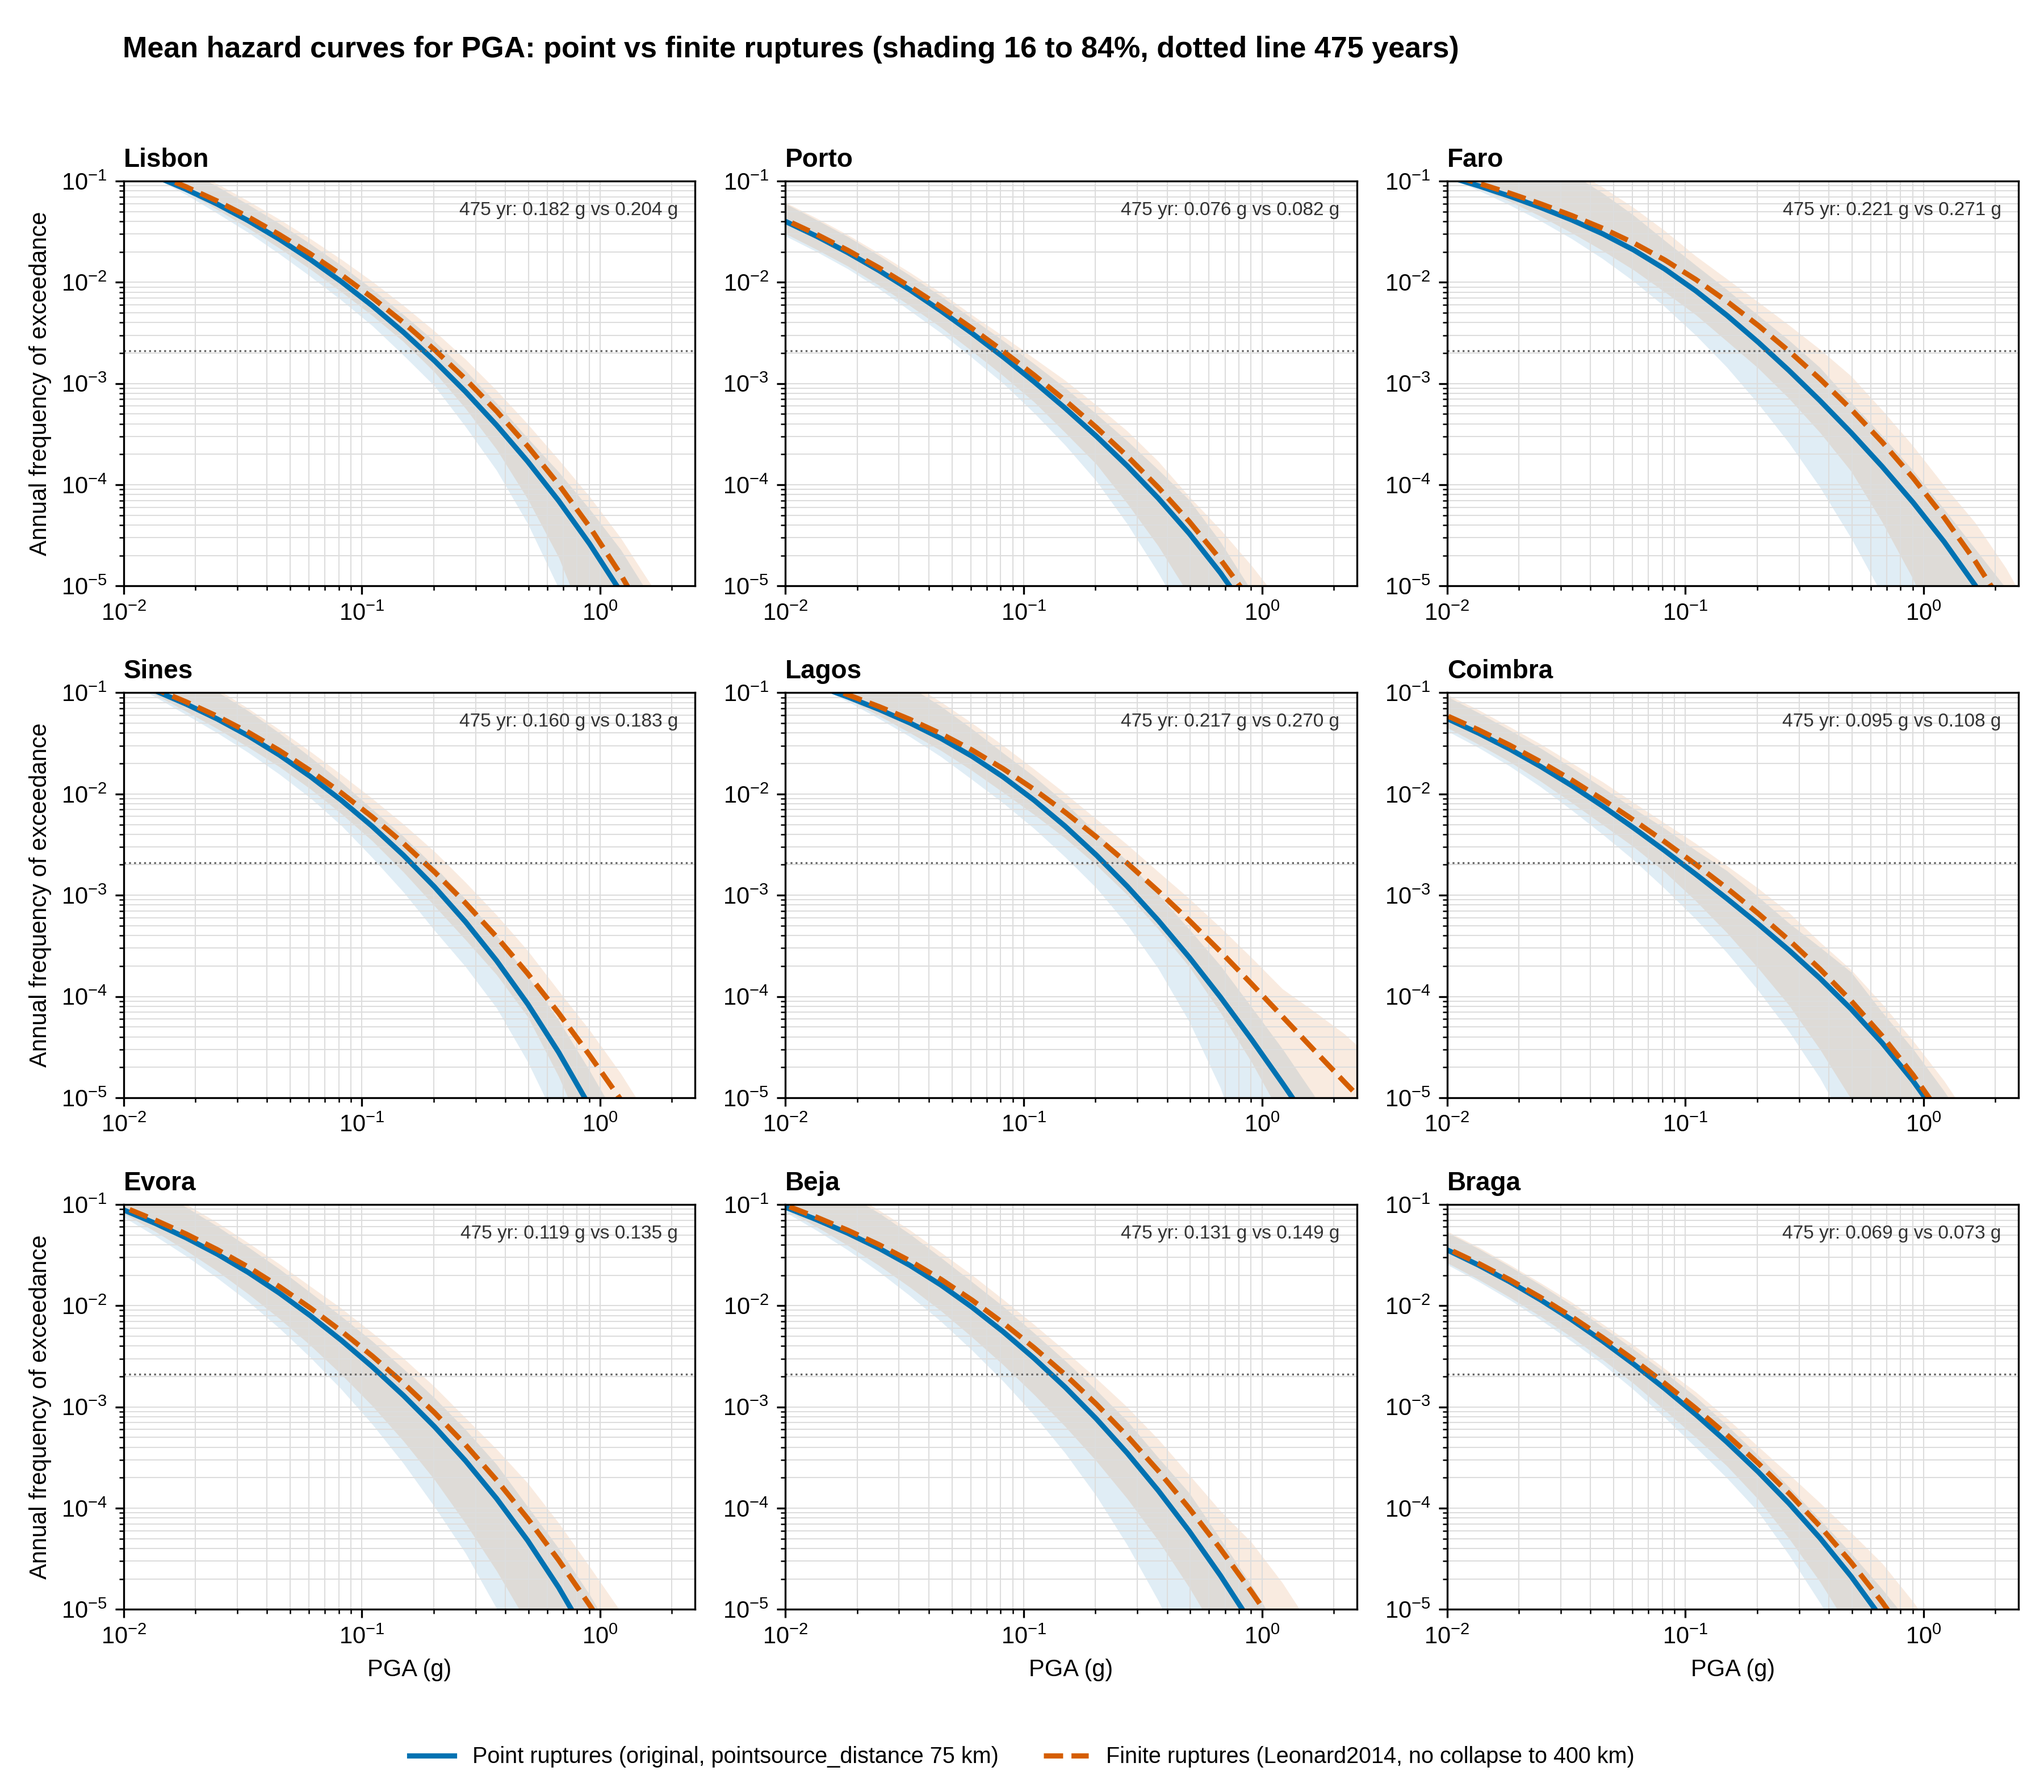
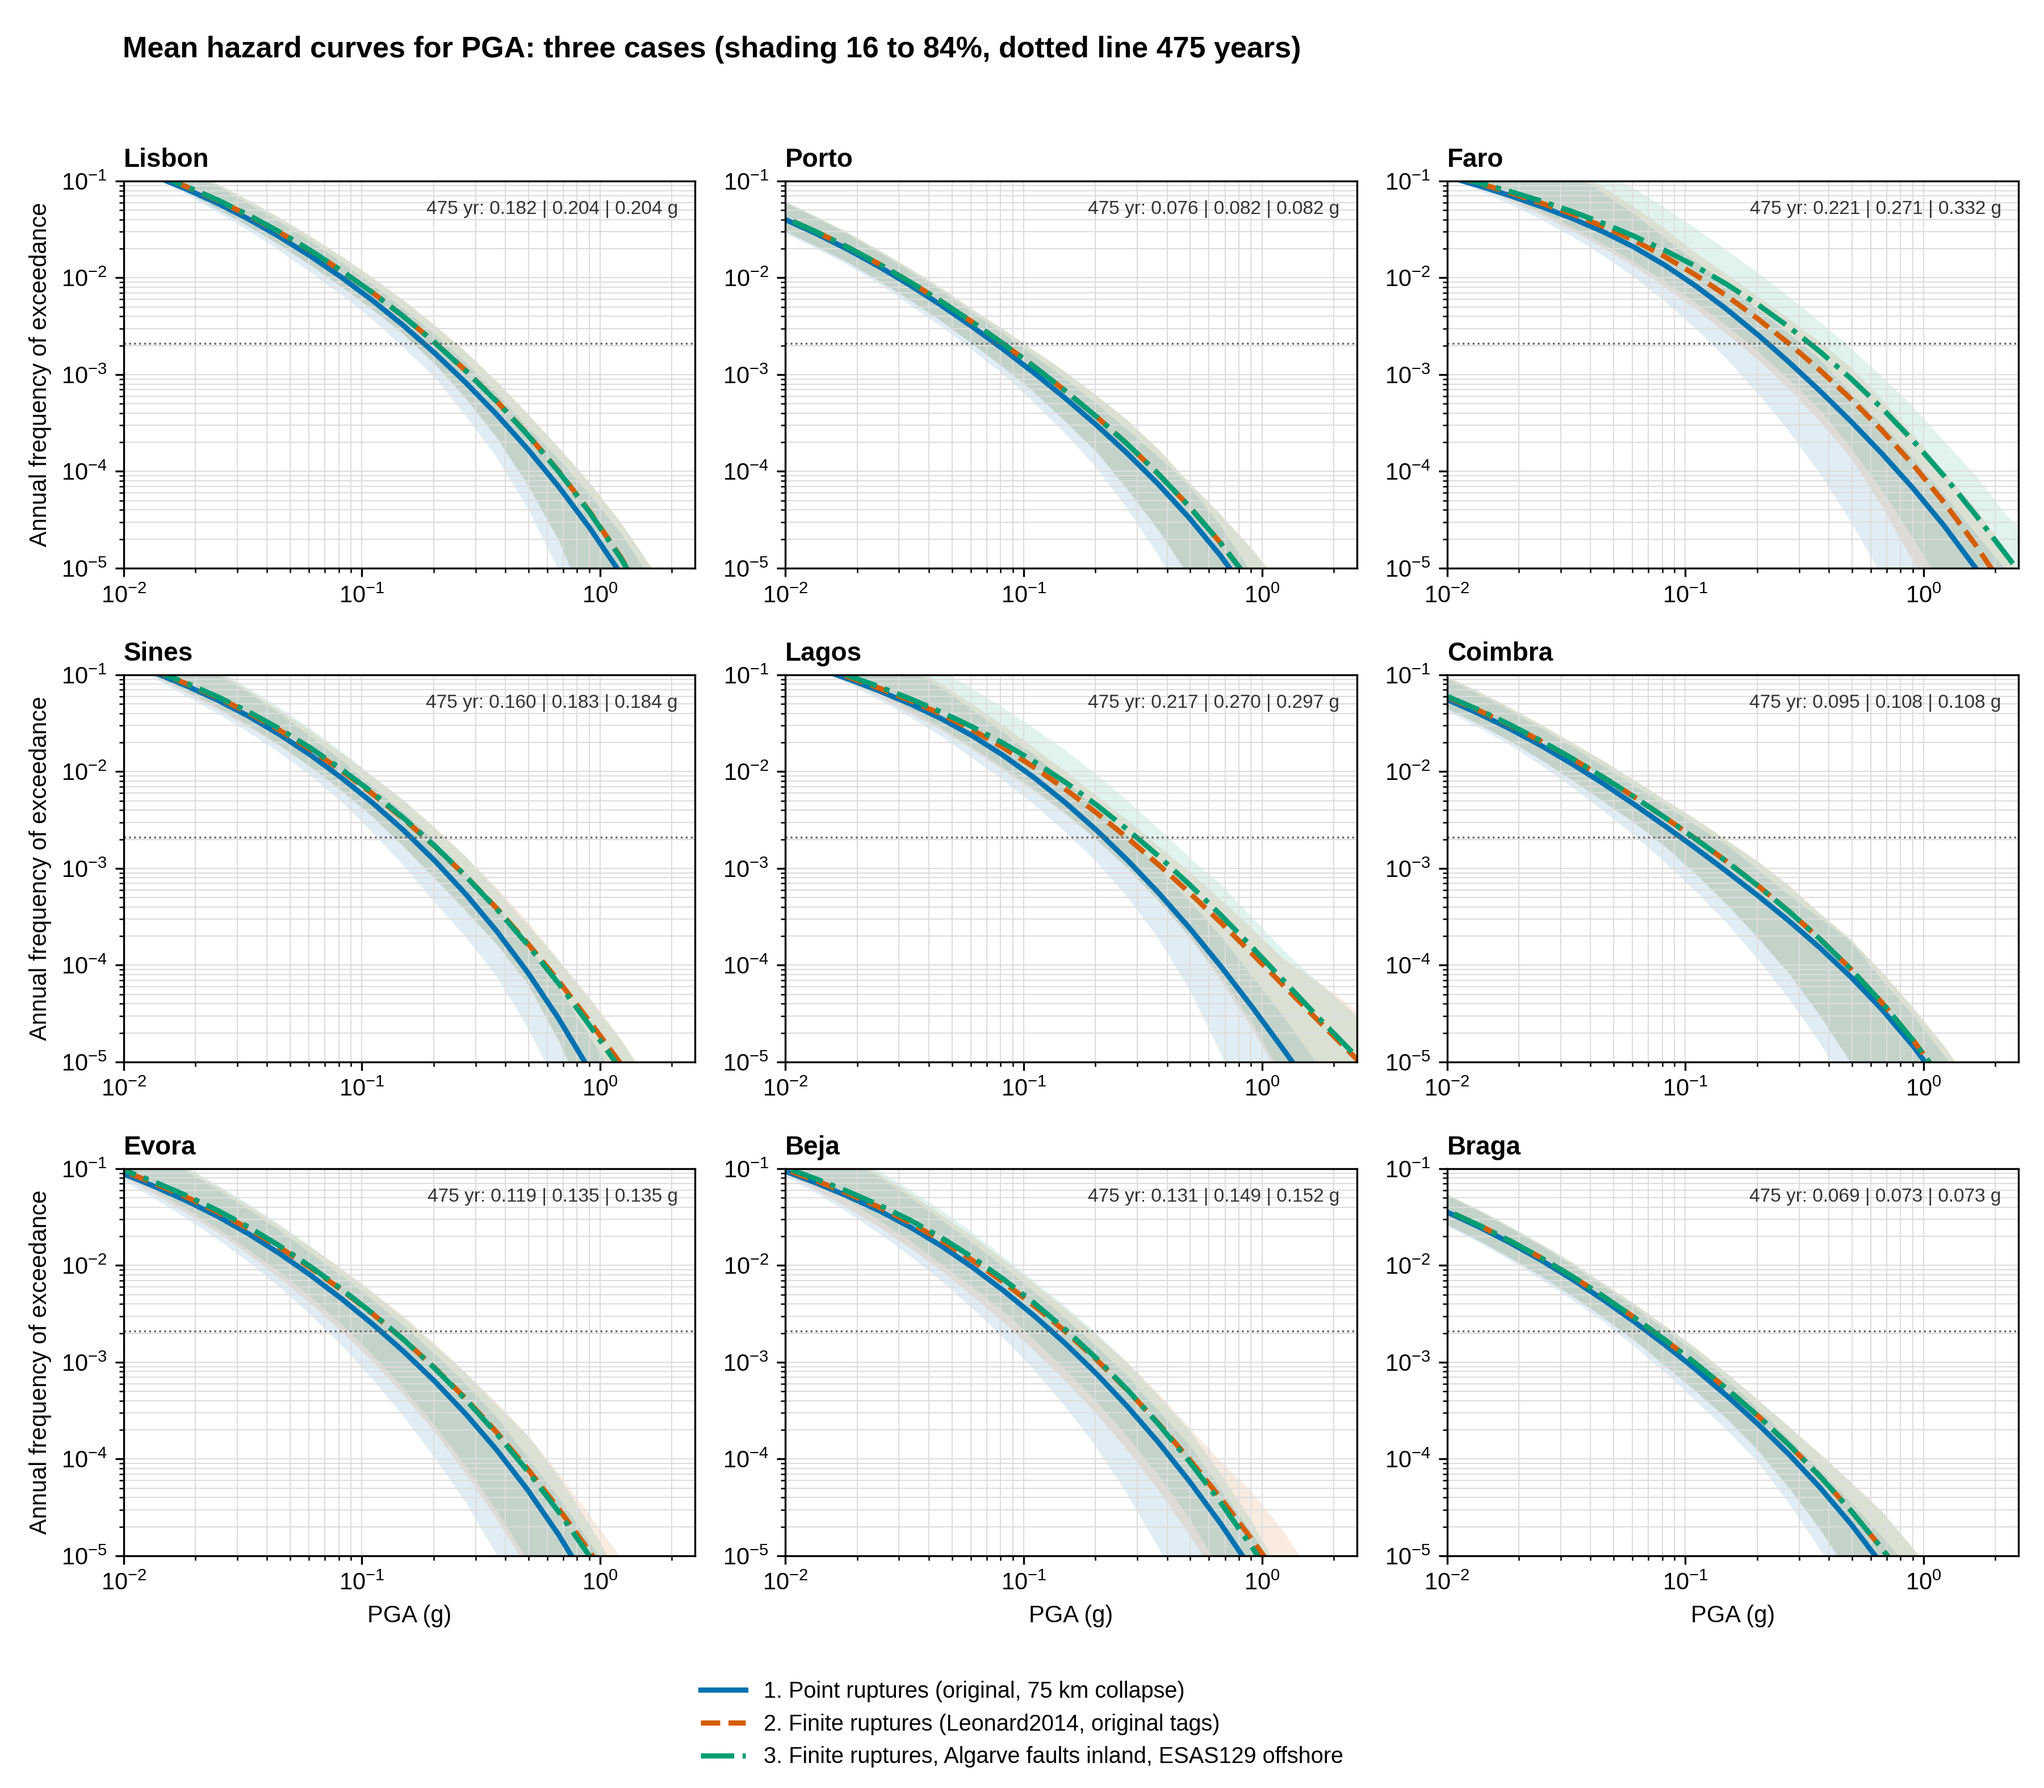
Add case 3 (retagged Algarve faults and ESAS129) to PSHA sensitivity test

diff --git a/psha_sensitivity_point_vs_finite/README.md b/psha_sensitivity_point_vs_finite/README.md
@@ -1,7 +1,7 @@
 # PSHA sensitivity test: point vs finite ruptures (Portugal)
 
-This folder compares two versions of the Portugal PSHA model (OpenQuake, `local_regional_hip2`, based on ESHM20).
-The only change is how large ruptures are modelled in area and multi-point sources.
+This folder compares three versions of the Portugal PSHA model (OpenQuake, `local_regional_hip2`, based on ESHM20).
+Cases 1 and 2 differ only in how large ruptures are modelled in area and multi-point sources. Case 3 also corrects the tectonic region tags of some sources.
 
 ## Cases
 
@@ -9,44 +9,54 @@ The only change is how large ruptures are modelled in area and multi-point sourc
 
 **Case 2, finite:** All area and multi-point sources use Leonard2014 (SCR inland, Interplate offshore). Ruptures have a real length and width, with aspect ratio 1.0, the original nodal planes and the original depths. `pointsource_distance = 400 km` means no collapse, so Rjb is measured to the rupture plane. Large events now sit much closer to the coast.
 
+**Case 3, finite with corrected tags:** As case 2, with two tag corrections.
+
+* Nine Algarve faults tagged offshore in the original model are retagged **inland**: PTCF017, PTCF01A, PTCF01B, PTCF01E, PTCF01F, PTCF01G, PTCF01H, PTCF01I and PTCF01J. They use the inland GMMs and Leonard2014 SCR.
+* The area and multi-point source ESAS129 (Gulf of Cadiz), tagged inland in the original model, is retagged **offshore**. It uses the offshore GMMs and Leonard2014 Interplate.
+
+The scaling relation follows the tag in every case.
+
 **Everything else is identical:** the source tree (21 branches), the GMM tree, Vs30 800 m/s, the IMTs and the sites.
 
 **Effect:**
 
-* The 475-year ground motion rises by 5–25% for PGA and 5–40% for SA(1.0 s).
+* Case 2 against case 1: the 475-year ground motion rises by 5–25% for PGA and 5–40% for SA(1.0 s).
 * Lagos and Faro change most.
 * The tails differ most at low annual frequencies.
-* Runtime roughly doubles (1 min to 2 min).
+* Case 3 against case 2: Faro rises by 22% (PGA) and 24% (SA(1.0 s)), Lagos by 10% and 12%, Beja by 2% and 4%. All other cities change by 2% or less.
+* Case 3 against case 1: Faro rises by 50% (PGA) and 73% (SA(1.0 s)), Lagos by 37% and 55%.
+* The two tag corrections were applied together, so their separate effects are not isolated.
+* Runtime roughly doubles from case 1 to case 2 (1 min to 2 min). Case 3 takes the same time as case 2.
 
 ## Results
 
 Nine sites (Lisbon, Porto, Faro, Sines, Lagos, Coimbra, Évora, Beja, Braga). Mean hazard curves, shading shows the 16 to 84% quantiles, the dotted line marks a 475-year return period.
 
-![PGA hazard curves, point vs finite](figures/hazard_curves_PGA.png)
+![PGA hazard curves, three cases](figures/hazard_curves_PGA.png)
 
-![SA(1.0 s) hazard curves, point vs finite](figures/hazard_curves_SA1p0.png)
+![SA(1.0 s) hazard curves, three cases](figures/hazard_curves_SA1p0.png)
 
 475-year ground motion (g):
 
-| City | PGA point | PGA finite | Ratio | SA(1.0 s) point | SA(1.0 s) finite | Ratio |
+| City | PGA case 1 | PGA case 2 | PGA case 3 | SA(1.0 s) case 1 | SA(1.0 s) case 2 | SA(1.0 s) case 3 |
 |---|---|---|---|---|---|---|
-| Lisbon | 0.182 | 0.204 | 1.12 | 0.119 | 0.140 | 1.17 |
-| Porto | 0.076 | 0.082 | 1.08 | 0.043 | 0.046 | 1.07 |
-| Faro | 0.221 | 0.271 | 1.23 | 0.127 | 0.178 | 1.40 |
-| Sines | 0.160 | 0.183 | 1.14 | 0.112 | 0.134 | 1.19 |
-| Lagos | 0.217 | 0.270 | 1.25 | 0.149 | 0.206 | 1.39 |
-| Coimbra | 0.095 | 0.108 | 1.13 | 0.058 | 0.068 | 1.19 |
-| Évora | 0.119 | 0.135 | 1.13 | 0.079 | 0.094 | 1.19 |
-| Beja | 0.131 | 0.149 | 1.14 | 0.088 | 0.105 | 1.19 |
-| Braga | 0.069 | 0.073 | 1.06 | 0.039 | 0.041 | 1.05 |
+| Lisbon | 0.182 | 0.204 | 0.204 | 0.119 | 0.140 | 0.140 |
+| Porto | 0.076 | 0.082 | 0.082 | 0.043 | 0.046 | 0.046 |
+| Faro | 0.221 | 0.271 | 0.332 | 0.127 | 0.178 | 0.221 |
+| Sines | 0.160 | 0.183 | 0.184 | 0.112 | 0.134 | 0.137 |
+| Lagos | 0.217 | 0.270 | 0.297 | 0.149 | 0.206 | 0.231 |
+| Coimbra | 0.095 | 0.108 | 0.108 | 0.058 | 0.068 | 0.068 |
+| Évora | 0.119 | 0.135 | 0.136 | 0.079 | 0.094 | 0.095 |
+| Beja | 0.131 | 0.149 | 0.152 | 0.088 | 0.105 | 0.109 |
+| Braga | 0.069 | 0.073 | 0.073 | 0.039 | 0.041 | 0.041 |
 
 ## Files
 
 | File | Content |
 |---|---|
-| `figures/hazard_curves_PGA.png` | PGA mean hazard curves, 3×3 grid of cities |
-| `figures/hazard_curves_SA1p0.png` | SA(1.0 s) mean hazard curves, 3×3 grid of cities |
-| `results/psha_point_vs_finite_hazard.xlsx` | `Summary`: 475-year values and ratios. `PGA_curves`, `SA1p0_curves`: mean hazard curves (probability of exceedance in 50 years) for both cases |
+| `figures/hazard_curves_PGA.png` | PGA mean hazard curves, three cases, 3×3 grid of cities |
+| `figures/hazard_curves_SA1p0.png` | SA(1.0 s) mean hazard curves, three cases, 3×3 grid of cities |
+| `results/psha_point_vs_finite_hazard.xlsx` | `Summary`: 475-year values and ratios. `PGA_curves`, `SA1p0_curves`: mean hazard curves (probability of exceedance in 50 years) for the three cases |
 
 ## Run settings
 
@@ -54,4 +64,4 @@ Nine sites (Lisbon, Porto, Faro, Sines, Lagos, Coimbra, Évora, Beja, Braga). Me
 * GMM logic tree with four branches: `KothaEtAl2020ESHM20` (high stress, slow attenuation), `Taherian2025ModifiedTest6` and `Morgadoetal2026` (inland and offshore variants)
 * Site model: Vs30 800 m/s, ESHM20 region 5
 * IMTs: PGA and SA(1.0 s), 30 intensity levels from 0.0005 g to 3 g
-* Only the magnitude scaling relation and `pointsource_distance` differ between the two runs
+* Only the magnitude scaling relation, `pointsource_distance` and (case 3) the tectonic region tags differ between the runs
